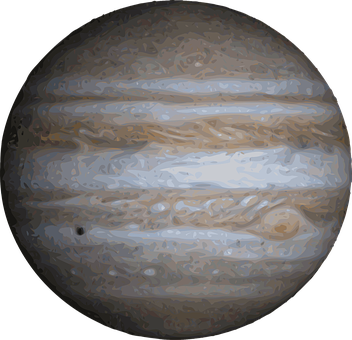
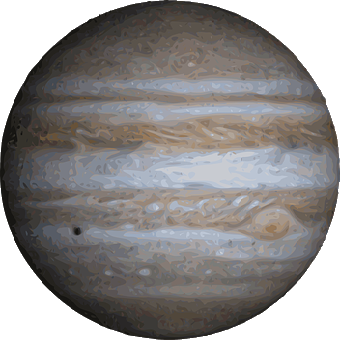
Added Planets Animations

diff --git a/specificity/style.css b/specificity/style.css
@@ -40,22 +40,37 @@ header{
   	height: 500px;
   	padding-top: 200px;
   	margin-bottom: 20px;
+	-webkit-animation: pulsate-fwd 5s ease-in-out infinite both;
+	        animation: pulsate-fwd 5s ease-in-out infinite both;
 }
 
 .intro{
-	background-image: url(mercury.png);
-	background-position: center;
-  	background-repeat: no-repeat;
-  	background-size: cover;
   	width: 200px;
   	height: 200px;
   	margin-left: 100px;
   	color: #fff040;
   	text-align: center;
-  	
+}
+.intro-bg{
+	width: 200px;
+  	height: 200px;
+	background-image: url(mercury.png);
+	background-position: center;
+  	background-repeat: no-repeat;
+  	background-size: cover;
+	-webkit-animation: rotate-center 10s linear infinite both;
+	  		animation: rotate-center 10s linear infinite both;
 }
 
+
 .explaination{
+  	width: 300px;
+  	height: 300px;
+  	padding-top: 20px;
+  	color: white;
+  	text-align: center;
+}
+.explaination-bg{
 	background-image: url(venus.png);
 	background-position: center;
   	background-repeat: no-repeat;
@@ -64,38 +79,56 @@ header{
   	height: 300px;
   	padding-top: 20px;
   	margin-top: 150px;
-  	color: white;
-  	text-align: center;
-  	
+  	-webkit-animation: rotate-center 100s linear infinite reverse both;
+	        animation: rotate-center 100s linear infinite reverse both;
 }
 
 .example{
+  	width: 250px;
+  	height: 250px;
+  	margin-top: 300px;
+  	color: blue;
+  	text-align: center;
+}
+.example-bg{
 	background-image: url(mars.png);
 	background-position: center;
   	background-repeat: no-repeat;
   	background-size: cover;
   	width: 250px;
   	height: 250px;
-  	margin-top: 300px;
-  	color: blue;
-  	text-align: center;
+  	-webkit-animation: rotate-center 3s linear infinite both;
+	  		animation: rotate-center 3s linear infinite both;
   	
 }
 
+
 .basic-code1{
+  	width: 420px;
+  	height: 400px;
+
+  	color: aqua;
+  	padding-top: 80px;
+
+  	margin-top: 240px;
+  	margin-left: 300px;
+  	font-size: 20px;
+  	
+}
+
+.basic-code1-bg{
 	background-image: url(jupiter.png);
 	background-position: center;
   	background-repeat: no-repeat;
   	background-size: cover;
-  	width: 420px;
+  	width: 400px;
   	height: 400px;
-
-  	color: #e91ed9;
   	padding-top: 80px;
-  	padding-left: 100px;
-  	margin-top: 20px;
-  	margin-left: 200px;
-  	font-size: 20px;
+
+  	margin-top: 240px;
+  	margin-left: 180px;
+  	  	-webkit-animation: rotate-center 2s linear infinite both;
+	  		animation: rotate-center 2s linear infinite both;
   	
 }
 
@@ -104,37 +137,42 @@ header{
 	background-position: center;
   	background-repeat: no-repeat;
   	background-size: cover;
-  	width: 620px;
+  	width: 625px;
   	height: 375px;
-
-  	color: crimson;
-  	margin-top: 20px;
   	padding-top: 80px;
   	padding-left: 200px;
+  	color: crimson;
   	font-size: 20px;
   	
-
 }
 
 .step1{
-	background-image: url(uranus.png);
-	background-position: center;
-  	background-repeat: no-repeat;
-  	background-size: cover;
   	width: 300px;
   	height: 300px;
-  	margin-top: 200px;
   	padding-top: 50px;
+  	margin-left: 40px;
   	color: blueviolet;
   	
   	text-align: center;
 }
-
-.step2{
-	background-image: url(neptune.png);
+.step1-bg{
+	background-image: url(uranus.png);
 	background-position: center;
   	background-repeat: no-repeat;
   	background-size: cover;
+  	width: 320px;
+  	height: 300px;
+  	margin-top: 200px;
+  	margin-left: 20px;
+  	padding-top: 50px;
+  	color: blueviolet;
+  	
+  	text-align: center;
+ 	-webkit-animation: rotate-center 2.5s linear infinite reverse both;
+	        animation: rotate-center 2.5s linear infinite reverse both;
+}
+
+.step2{
   	width: 350px;
   	height: 350px;
   	margin-top: 400px;
@@ -142,6 +180,19 @@ header{
   	color: lime;
   	
   	text-align: center;
+}
+.step2-bg{
+	background-image: url(neptune.png);
+	background-position: center;
+  	background-repeat: no-repeat;
+  	background-size: cover;
+  	width: 350px;
+  	height: 350px;
+  	color: lime;
+  	
+  	text-align: center;
+  	-webkit-animation: rotate-center 2.3s linear infinite both;
+	  		animation: rotate-center 2.3s linear infinite both;
 }
 
 
@@ -152,6 +203,7 @@ header{
   	background-size: cover;
   	height: 400px;
   	padding-top: 250px;
+  	margin-top: 100px;
   	text-align: center;
   	color: red;
   	font-size: 20px;
@@ -205,5 +257,103 @@ p{
   }
 }
 
+/* ----------------------------------------------
+ * Generated by Animista on 2019-2-2 20:2:22
+ * w: http://animista.net, t: @cssanimista
+ * ---------------------------------------------- */
 
+/**
+ * ----------------------------------------
+ * animation rotate-center
+ * ----------------------------------------
+ */
+@-webkit-keyframes rotate-center {
+  0% {
+    -webkit-transform: rotate(0);
+            transform: rotate(0);
+  }
+  100% {
+    -webkit-transform: rotate(360deg);
+            transform: rotate(360deg);
+  }
+}
+@keyframes rotate-center {
+  0% {
+    -webkit-transform: rotate(0);
+            transform: rotate(0);
+  }
+  100% {
+    -webkit-transform: rotate(360deg);
+            transform: rotate(360deg);
+  }
+}
+
+/* ----------------------------------------------
+ * Generated by Animista on 2019-2-2 21:5:16
+ * w: http://animista.net, t: @cssanimista
+ * ---------------------------------------------- */
+
+/**
+ * ----------------------------------------
+ * animation rotate-vert-center
+ * ----------------------------------------
+ */
+@-webkit-keyframes rotate-vert-center {
+  0% {
+    -webkit-transform: rotateY(0);
+            transform: rotateY(0);
+  }
+  100% {
+    -webkit-transform: rotateY(360deg);
+            transform: rotateY(360deg);
+  }
+}
+@keyframes rotate-vert-center {
+  0% {
+    -webkit-transform: rotateY(0);
+            transform: rotateY(0);
+  }
+  100% {
+    -webkit-transform: rotateY(360deg);
+            transform: rotateY(360deg);
+  }
+}
+/* ----------------------------------------------
+ * Generated by Animista on 2019-2-2 22:3:43
+ * w: http://animista.net, t: @cssanimista
+ * ---------------------------------------------- */
+
+/**
+ * ----------------------------------------
+ * animation pulsate-fwd
+ * ----------------------------------------
+ */
+@-webkit-keyframes pulsate-fwd {
+  0% {
+    -webkit-transform: scale(1);
+            transform: scale(1);
+  }
+  50% {
+    -webkit-transform: scale(1.1);
+            transform: scale(1.1);
+  }
+  100% {
+    -webkit-transform: scale(1);
+            transform: scale(1);
+  }
+}
+@keyframes pulsate-fwd {
+  0% {
+    -webkit-transform: scale(1);
+            transform: scale(1);
+  }
+  50% {
+    -webkit-transform: scale(1.1);
+            transform: scale(1.1);
+  }
+  100% {
+    -webkit-transform: scale(1);
+            transform: scale(1);
+  }
+}
 

diff --git a/specificity/index.html b/specificity/index.html
@@ -24,10 +24,13 @@
 	
 		<div class="grid-container">
 			<div class="intro">
+				<div class="intro-bg"></div>
 				<h3>What is a CSS specification?</h3>
 				<p>CSS specification is the way HTML choose which CSS rules in the .css stylesheets to apply to an 	element </p>
 			</div>
+
 			<div class="explaination">
+				<div class="explaination-bg"></div>
 				<h3>How does it work?</h3>
 				<p>
 					Suppose you have multiple css stylesheet linked to a HTML page. <br>
@@ -37,6 +40,7 @@
 				</p>
 			</div>
 			<div class="example">
+					<div class="example-bg"></div>
 					<h3>A basic example</h3>
 					<a href="" class="button1">Button1</a> <a href="" class="button2">Button2</a>
 					<p>From above buttons, Button1 element uses .button1 CSS selector <br>
@@ -50,7 +54,6 @@
 
 		<div class="grid-container">
 			<div></div>
-			<div></div>
 			<div class="basic-code1">
 				<p>/*basic-style1.css*/<br> 	
 					.button1{ <br>
@@ -63,11 +66,13 @@
 					}<br>
 				</p>
 			</div>
+			<div class="basic-code1-bg"></div>
 
 		</div>	
 		
 		<div class="grid-container">
 			<div class="step2">
+				<div class="step2-bg"></div>
 				<h3>And...Next?</h3>
 				<p>
 					<a href="" class="button1">Button1</a> <a href="" class="button2">Button2</a><br>
@@ -81,6 +86,7 @@
 				</p>
 			</div>
 			<div class="step1">
+				<div class="step1-bg"></div>
 				<h3>So ... What Happened?</h3>
 				<p>
 					<a href="" class="step1-button1">Button1</a> <a href="" class="step1-button2">Button2</a><br>
